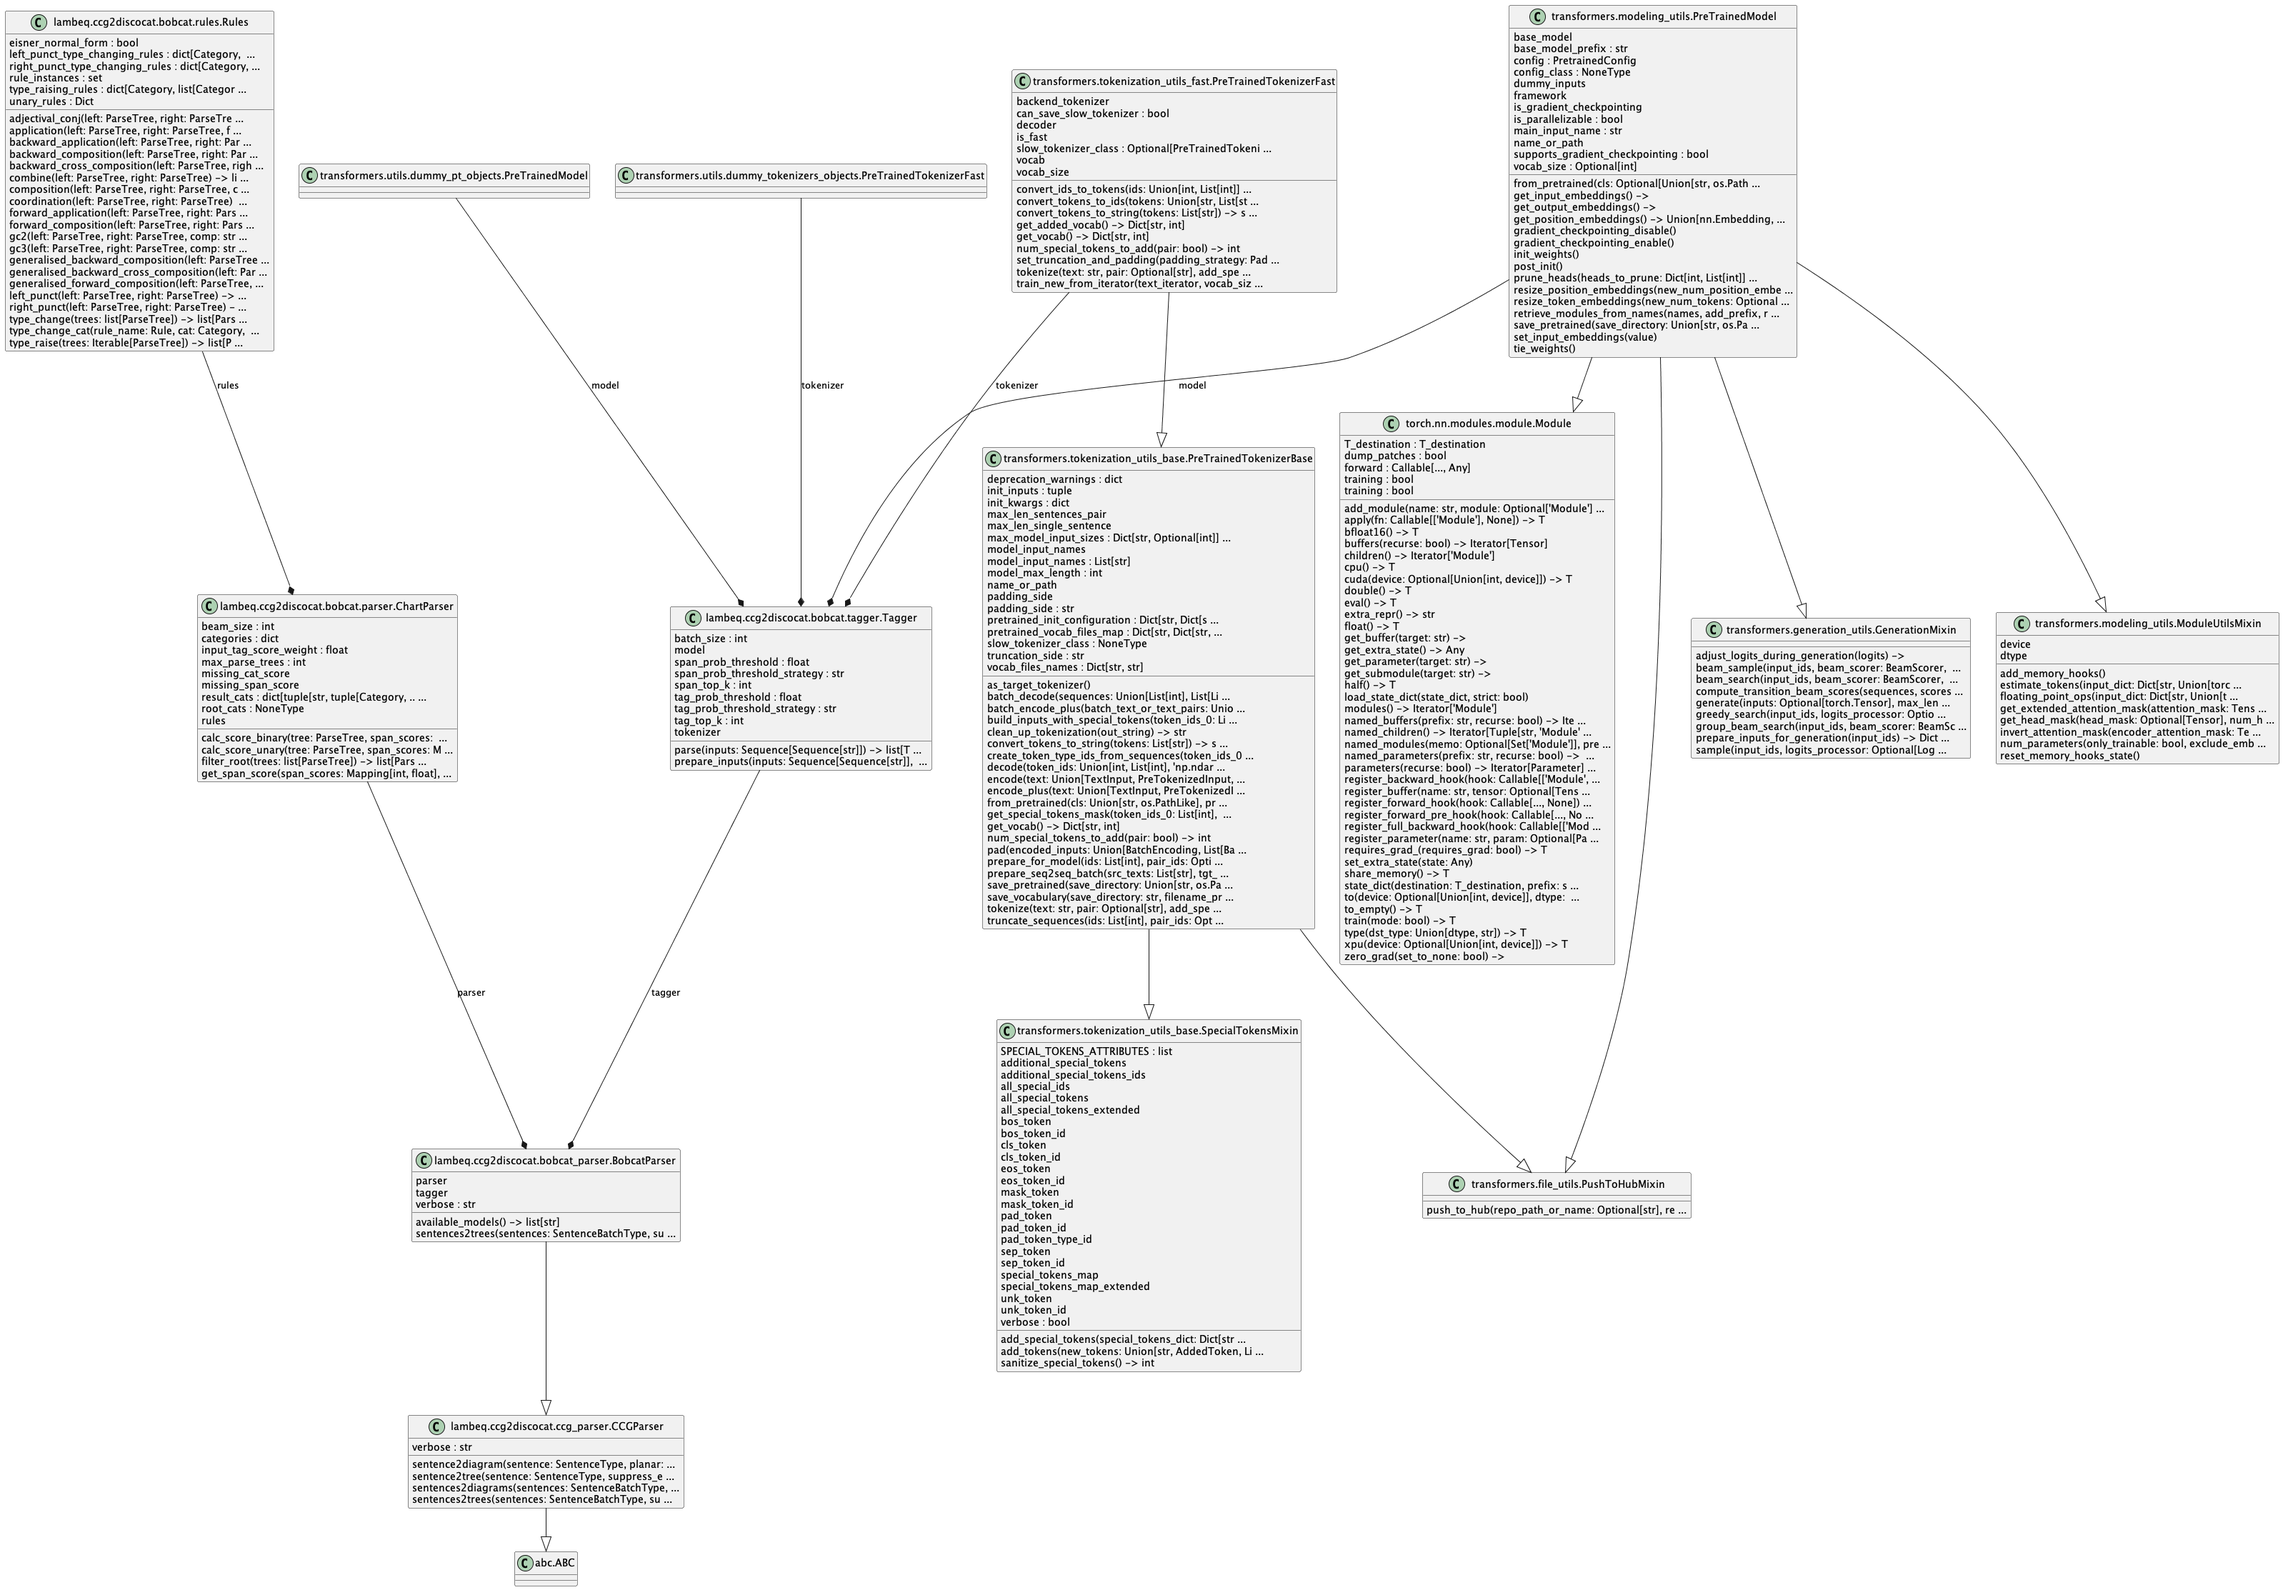
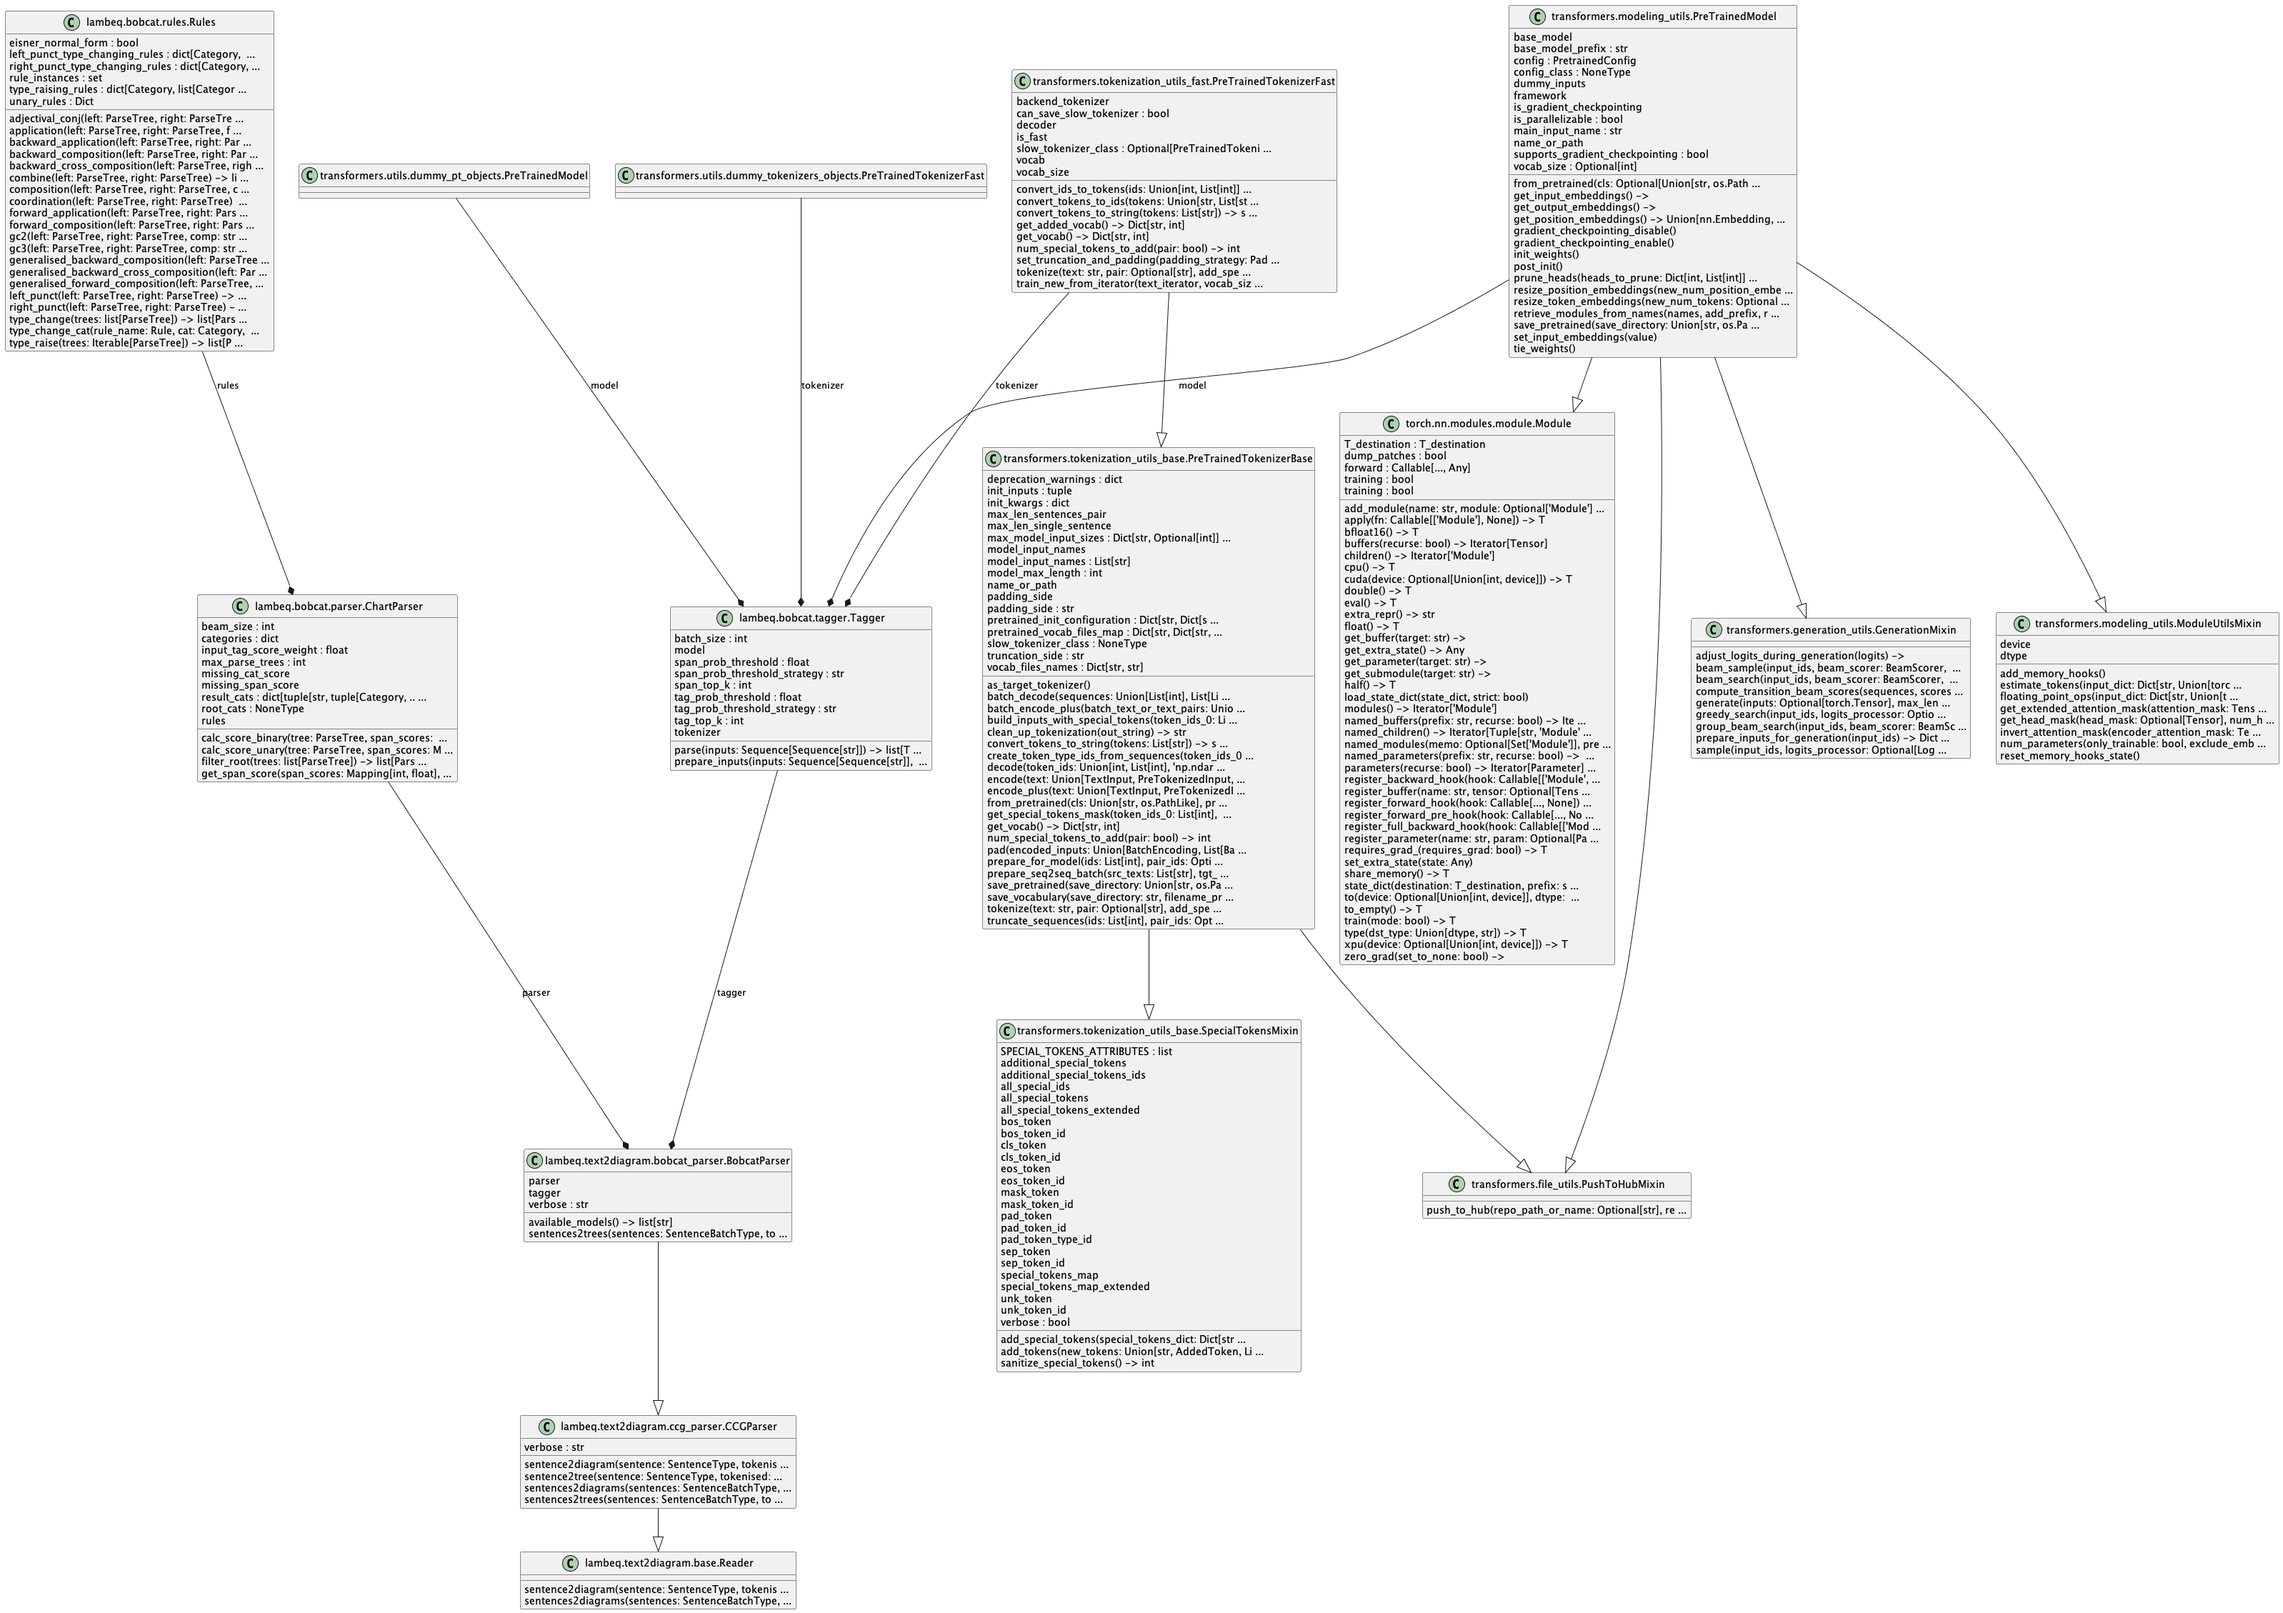
docs: Adding text2diagram (#262)
Updates documentation after the refactoring of parsers and readers.

diff --git a/docs/package-api.rst b/docs/package-api.rst
@@ -25,26 +25,23 @@ Concrete implementations of classical and quantum :term:`ansätze <ansatz (plura
 
 |
 
-.. _api_ccg2discocat:
+.. _api_bobcat:
 
-lambeq.ccg2discocat
--------------------
-Package containing the interfaces for the CCG parsers (including a :py:class:`~lambeq.ccg2discocat.CCGBankParser`), as well as the code for :term:`Bobcat` parser.
+lambeq.bobcat
+-------------
 
-.. rubric:: API: :doc:`lambeq.ccg2discocat`
+The code for :term:`Bobcat` parser, a state-of-the-art :term:`CCG <Combinatory Categorial Grammar (CCG)>` parser used for getting syntactic derivations of sentences.
 
-.. rubric:: UML diagrams: :ref:`uml_ccg2discocat`
+.. rubric:: API: :doc:`lambeq.bobcat`
+
+.. rubric:: UML diagrams: :ref:`uml_bobcat`
 
 .. rubric:: Classes:
 
 .. inheritance-diagram::
-    lambeq.ccg2discocat.BobcatParser
-    lambeq.ccg2discocat.CCGAtomicType
-    lambeq.ccg2discocat.CCGBankParser
-    lambeq.ccg2discocat.CCGRule
-    lambeq.ccg2discocat.CCGTree
-    lambeq.ccg2discocat.DepCCGParser
-    lambeq.ccg2discocat.WebParser
+    lambeq.bobcat.ChartParser
+    lambeq.bobcat.Tagger
+    lambeq.bobcat.Rules
    :parts: 1
 
 |
@@ -73,32 +70,6 @@ A collection of useful utilities for easier manipulation of :term:`pregroup <pre
 
 |
 
-.. _api_reader:
-
-lambeq.reader
--------------
-Abstractions and concrete classes for :term:`readers <reader>`, implementing a variety of :term:`compositional models <compositional model>` for sentences.
-
-.. rubric:: API: :doc:`lambeq.reader`
-
-.. rubric:: UML diagrams: :ref:`uml_reader`
-
-.. rubric:: Objects
-
-- :py:data:`~lambeq.reader.cups_reader`
-- :py:data:`~lambeq.reader.spiders_reader`
-- :py:data:`~lambeq.reader.stairs_reader`
-
-.. rubric:: Classes
-
-.. inheritance-diagram::
-    lambeq.reader.TreeReader
-    lambeq.reader.LinearReader
-    lambeq.reader.TreeReaderMode
-   :parts: 1
-
-|
-
 .. _api_rewrite:
 
 lambeq.rewrite
@@ -116,6 +87,42 @@ Contains implementations of :term:`rewrite rules <rewrite rule>` for the transfo
     lambeq.rewrite.RewriteRule
     lambeq.rewrite.Rewriter
     lambeq.rewrite.SimpleRewriteRule
+   :parts: 1
+
+|
+
+.. _api_text2diagram:
+
+lambeq.text2diagram
+-------------------
+Package containing the interfaces for the :term:`CCG <Combinatory Categorial Grammar (CCG)>` parsers (including a :py:class:`~lambeq.text2diagram.CCGBankParser`), as well as abstractions and concrete classes for :term:`readers <reader>`, implementing a variety of :term:`compositional models <compositional model>` for sentences.
+
+.. rubric:: API: :doc:`lambeq.text2diagram`
+
+.. rubric:: UML diagrams: :ref:`uml_text2diagram`
+
+.. rubric:: Objects
+
+- :py:data:`~lambeq.text2diagram.bag_of_words_reader`
+- :py:data:`~lambeq.text2diagram.cups_reader`
+- :py:data:`~lambeq.text2diagram.spiders_reader`
+- :py:data:`~lambeq.text2diagram.stairs_reader`
+- :py:data:`~lambeq.text2diagram.word_sequence_reader`
+
+.. rubric:: Classes:
+
+.. inheritance-diagram::
+    lambeq.text2diagram.BobcatParser
+    lambeq.text2diagram.CCGAtomicType
+    lambeq.text2diagram.CCGBankParser
+    lambeq.text2diagram.CCGRule
+    lambeq.text2diagram.CCGTree
+    lambeq.text2diagram.DepCCGParser
+    lambeq.text2diagram.LinearReader
+    lambeq.text2diagram.Reader
+    lambeq.text2diagram.TreeReader
+    lambeq.text2diagram.TreeReaderMode
+    lambeq.text2diagram.WebParser
    :parts: 1
 
 |

diff --git a/docs/parsing.rst b/docs/parsing.rst
@@ -5,7 +5,7 @@ Syntactic parsing
 
 ``lambeq``'s :ref:`string diagrams <sec-string-diagrams>` are based on a :ref:`pregroup grammar <sec-pregroup-grammars>` to keep track of the types and the interactions between the words in a sentence. When a detailed syntactic derivation is required (as in the case of :term:`DisCoCat`), a :term:`syntax tree` needs to be provided by a statistical :term:`parser`. However, since the :term:`pregroup grammar` formalism is not particularly well-known in the :term:`NLP <natural language processing (NLP)>` community, there is currently no wide-coverage pregroup :term:`parser` that can automatically provide the syntactic derivations. To address this problem, ``lambeq`` provides a passage from a derivation in the closest alternative grammar formalism, namely :term:`Combinatory Categorial Grammar (CCG)`, to a :term:`string diagram` which faithfully encodes the syntactic structure of the sentence in a pregroup-like form [YK2021]_. Due to the availability of many robust :term:`CCG <Combinatory Categorial Grammar (CCG)>` :term:`parsing tools <parser>`, this allows the conversion of large corpora with sentences of arbitrary length and syntactic structure into :term:`pregroup <pregroup grammar>` and :term:`DisCoCat` form.
 
-Since Release :ref:`rel-0.2.0`, the standard ``lambeq`` installation includes a state-of-the-art CCG parser based on [SC2021]_, fully integrated into the toolkit. This parser is provided under the name :term:`Bobcat`. Additionally, ``lambeq`` implements a detailed interface in the :py:mod:`.ccg2discocat` package that allows connection to one of the many external CCG parsing tools that are currently available. For example, ``lambeq`` is also shipped with support for :term:`depccg` [#f1]_ [YNM2017]_, a fast parser that comes with a convenient Python interface.
+Since Release :ref:`rel-0.2.0`, the standard ``lambeq`` installation includes a state-of-the-art CCG parser based on [SC2021]_, fully integrated into the toolkit. This parser is provided under the name :term:`Bobcat`. Additionally, ``lambeq`` implements a detailed interface in the :py:mod:`.text2diagram` package that allows connection to one of the many external CCG parsing tools that are currently available. For example, ``lambeq`` is also shipped with support for :term:`depccg` [#f1]_ [YNM2017]_, a fast parser that comes with a convenient Python interface.
 
 Additional external parsers can be made available to ``lambeq`` by extending the :py:class:`.CCGParser` class in order to create a wrapper subclass that encapsulates the necessary calls and translates the respective parser's output into :py:class:`.CCGTree` format.
 

diff --git a/docs/uml-diagrams.rst b/docs/uml-diagrams.rst
@@ -19,18 +19,9 @@ lambeq.ansatz
 .. image:: _static/images/classes_ansatz.png
    :width: 100%
 
-.. _uml_ccg2discocat:
+.. _uml_bobcat:
 
-lambeq.ccg2discocat
--------------------
-
-General structure
-~~~~~~~~~~~~~~~~~
-
-.. image:: _static/images/classes_ccg2discocat.png
-   :width: 100%
-
-Bobcat parser
+lambeq.bobcat
 ~~~~~~~~~~~~~
 
 .. image:: _static/images/classes_bobcat.png
@@ -44,20 +35,20 @@ lambeq.pregroups
 .. image:: _static/images/classes_pregroups.png
    :width: 70%
 
-.. _uml_reader:
-
-lambeq.reader
--------------
-
-.. image:: _static/images/classes_reader.png
-   :width: 100%
-
 .. _uml_rewrite:
 
 lambeq.rewrite
 --------------
 
 .. image:: _static/images/classes_rewrite.png
+   :width: 100%
+
+.. _uml_text2diagram:
+
+lambeq.text2diagram
+-------------------
+
+.. image:: _static/images/classes_text2diagram.png
    :width: 100%
 
 .. _uml_tokeniser:

diff --git a/docs/lambeq.text2diagram.rst b/docs/lambeq.text2diagram.rst
@@ -1,0 +1,18 @@
+lambeq.text2diagram
+===================
+
+.. automodule:: lambeq.text2diagram
+   :members:
+   :undoc-members:
+   :show-inheritance:
+   :exclude-members: ccg_type_regex, id_regex, escaped_words, tree_regex, verbose
+
+.. autodata:: lambeq.text2diagram.cups_reader
+
+.. autodata:: lambeq.text2diagram.spiders_reader
+
+.. autodata:: lambeq.text2diagram.stairs_reader
+
+.. autodata:: lambeq.text2diagram.word_sequence_reader
+
+.. autodata:: lambeq.text2diagram.bag_of_words_reader

diff --git a/docs/notebooks.rst b/docs/notebooks.rst
@@ -5,7 +5,7 @@ Examples
 
 .. toctree::
 
-    ../examples/ccg2discocat.ipynb
+    ../examples/parser.ipynb
     ../examples/reader.ipynb
     ../examples/tree_reader.ipynb
     ../examples/rewrite.ipynb

diff --git a/docs/lambeq.bobcat.rst b/docs/lambeq.bobcat.rst
@@ -1,0 +1,7 @@
+lambeq.bobcat
+=============
+
+.. automodule:: lambeq.bobcat
+   :members:
+   :undoc-members:
+   :show-inheritance:
